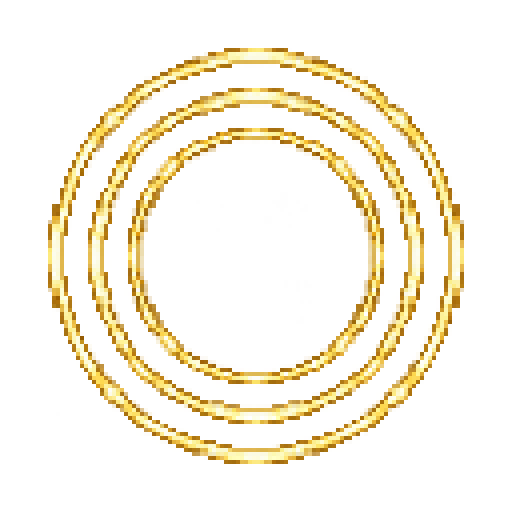
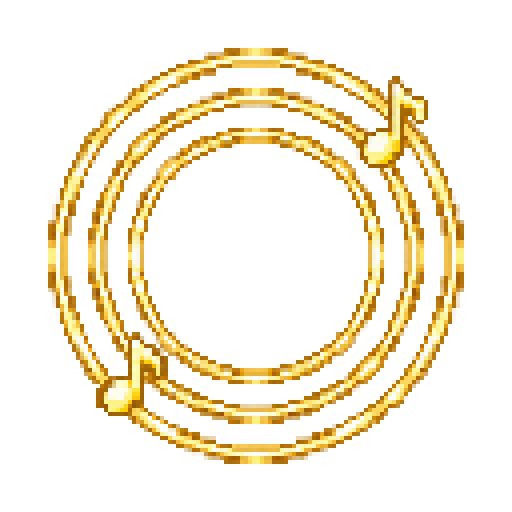
Add shared thread wrap cocoon guard and musical bell VFX drafts

Changed region(s): [[0.0938, 0.0938, 0.9062, 0.9062]]

diff --git a/Docs/Art/skill-vfx-preview.html b/Docs/Art/skill-vfx-preview.html
@@ -5,9 +5,10 @@
 <title>スキル画像草案</title>
 <style>
 *{box-sizing:border-box}body{margin:0;background:#f1f3f2;color:#26342b;font:15px system-ui,sans-serif;letter-spacing:0}header{background:white;border-bottom:1px solid #cbd3cc;padding:18px 24px}header>div,main{max-width:1100px;margin:auto}header>div{display:flex;gap:16px;align-items:center;flex-wrap:wrap}h1{font-size:21px;margin:0}small{color:#667367;font-size:13px}.controls{display:flex;gap:12px;margin-left:auto;align-items:center}button{font:inherit;background:white;color:#263e30;border:1px solid #a9b8ac;cursor:pointer;min-width:40px;height:36px;border-radius:3px}button:hover{background:#e9f0eb}button[aria-pressed=true]{background:#315840;color:white}.angles{display:flex}.angles button{border-radius:0;border-right:0}.angles button:first-child{border-radius:3px 0 0 3px}.angles button:last-child{border-right:1px solid #a9b8ac;border-radius:0 3px 3px 0}main{padding:16px 24px}article{padding:10px 0 20px;border-bottom:1px solid #cbd3cc}h2{font-size:17px;margin:0 0 10px}h2 span{font-weight:400;font-size:14px;margin-left:14px;color:#667367}.row{display:grid;grid-template-columns:210px minmax(0,1fr);gap:18px;align-items:center}.still{height:190px;display:grid;place-items:center;background-color:#e2e7e3;background-image:linear-gradient(45deg,#d6ddd8 25%,transparent 25%),linear-gradient(-45deg,#d6ddd8 25%,transparent 25%),linear-gradient(45deg,transparent 75%,#d6ddd8 75%),linear-gradient(-45deg,transparent 75%,#d6ddd8 75%);background-size:20px 20px;background-position:0 0,0 10px,10px -10px,-10px 0}.still img{max-width:184px;max-height:170px;image-rendering:pixelated}.scene{display:block;width:100%;aspect-ratio:16/7;background:#74866b;image-rendering:pixelated}#error{color:#b02929}@media(max-width:650px){header{padding:14px 12px}.controls{margin-left:0;width:100%}main{padding:12px}.row{grid-template-columns:1fr;gap:10px}.still{height:106px}.still img{max-height:96px;max-width:210px}h1{font-size:19px}}
+.still.pair{grid-template-columns:1fr 1fr;gap:6px;padding:8px}.still.pair img{max-width:100%;max-height:150px;width:auto}.still.pair img:first-child{width:95px}@media(max-width:650px){.still.pair img{max-height:90px}.still.pair img:first-child{width:160px}}
 </style>
 <header><div><h1>スキル画像</h1><small>草案・ゲーム未接続</small><div class="controls"><button id="play" title="一時停止" aria-label="一時停止">&#10074;&#10074;</button><button id="replay" title="最初から再生" aria-label="最初から再生">&#8634;</button><div class="angles" role="group" aria-label="向き"><button data-angle="0" aria-pressed="true">0°</button><button data-angle="90" aria-pressed="false">90°</button><button data-angle="180" aria-pressed="false">180°</button><button data-angle="270" aria-pressed="false">270°</button></div></div></div></header>
-<main><article data-key="ChainLightning"><h2>電<span>連鎖電撃</span></h2><div class="row"><div class="still"></div><canvas class="scene" width="1280" height="560" aria-label="電の動作草案"></canvas></div></article><article data-key="PullThread"><h2>糸<span>引き糸</span></h2><div class="row"><div class="still"></div><canvas class="scene" width="1280" height="560" aria-label="糸の動作草案"></canvas></div></article><article data-key="BellEcho"><h2>鈴<span>再響</span></h2><div class="row"><div class="still"></div><canvas class="scene" width="1280" height="560" aria-label="鈴の動作草案"></canvas></div></article><p id="error" role="alert"></p></main>
+<main><article data-key="ChainLightning"><h2>電<span>連鎖電撃</span></h2><div class="row"><div class="still"></div><canvas class="scene" width="1280" height="560" aria-label="電の動作草案"></canvas></div></article><article data-key="PullThread"><h2>糸<span>引き糸</span></h2><div class="row"><div class="still"></div><canvas class="scene" width="1280" height="560" aria-label="糸の動作草案"></canvas></div></article><article data-key="BellEcho"><h2>鈴<span>再響</span></h2><div class="row"><div class="still"></div><canvas class="scene" width="1280" height="560" aria-label="鈴の動作草案"></canvas></div></article><article data-key="CocoonGuard"><h2>繭<span id="cocoon-phase">待機</span></h2><div class="row"><div class="still"></div><canvas class="scene" width="1280" height="560" aria-label="繭の巻き付きから保護への動作草案"></canvas></div></article><p id="error" role="alert"></p></main>
 <script>
 const draft='/Assets/Art/Drafts/VFX/SupportSkills/';
 const art='/Assets/Resources/UI/CharacterPieces/';
@@ -21,14 +22,17 @@ function point(x,y){const r=angle*Math.PI/180,s=angle%180?0.45:1;return{x:320+((
 function piece(ctx,image,p,bump=0){ctx.drawImage(image,p.x-27,p.y-32-bump,54,64);}
 function link(ctx,key,a,b,alpha=1){const l=layouts[key],r=l.bounds,dist=Math.hypot(b.x-a.x,b.y-a.y);ctx.save();ctx.globalAlpha=alpha;ctx.translate(a.x,a.y);ctx.rotate(Math.atan2(b.y-a.y,b.x-a.x));const h=key==='PullThread'?Math.max(3,dist*r.h/r.w):Math.max(7,dist*r.h/r.w);ctx.drawImage(images[key],r.x,r.y,r.w,r.h,0,-h/2,dist,h);ctx.restore();}
 function ring(ctx,p,progress){const r=layouts.BellEcho.bounds;ctx.save();ctx.globalAlpha=Math.sin(progress*Math.PI);const size=70+progress*85;ctx.drawImage(images.BellEcho,r.x,r.y,r.w,r.h,p.x-size/2,p.y-size/2,size,size);ctx.restore();}
+function overlay(ctx,key,p,alpha=1,height=104){const r=layouts[key].bounds,w=height*r.w/r.h;ctx.save();ctx.globalAlpha=alpha;ctx.drawImage(images[key],r.x,r.y,r.w,r.h,p.x-w/2,p.y-height/2,w,height);ctx.restore();}
+function cocoonState(seconds){const t=seconds%4.2,wrap=t>=.25&&t<1.2?Math.min(1,(t-.25)/.18,(1.2-t)/.2):0,guard=t>=1.28&&t<3.6?Math.min(1,(t-1.28)/.22,(3.6-t)/.3):0;return{wrap,guard,phase:wrap>0?'巻き付き':guard>0?'保護':'待機'};}
 function draw(){if(!images)return;const t=elapsed%2.8;
  for(const article of document.querySelectorAll('article')){const key=article.dataset.key,c=article.querySelector('canvas'),ctx=c.getContext('2d');ctx.setTransform(2,0,0,2,0,0);ctx.imageSmoothingEnabled=false;ctx.fillStyle='#74866b';ctx.fillRect(0,0,640,280);ctx.strokeStyle='#94a184';ctx.lineWidth=1;for(let x=0;x<640;x+=64){ctx.beginPath();ctx.moveTo(x,0);ctx.lineTo(x,280);ctx.stroke();}for(let y=12;y<280;y+=64){ctx.beginPath();ctx.moveTo(0,y);ctx.lineTo(640,y);ctx.stroke();}
   if(key==='ChainLightning'){const positions=[point(100,140),point(290,140),point(420,140),point(540,140)];piece(ctx,pieces.electric,positions[0]);for(let i=1;i<4;i++)piece(ctx,pieces.enemy,positions[i],t>0.35+(i-1)*0.35&&t<0.62+(i-1)*0.35?3:0);for(let i=0;i<3;i++){const phase=t-0.35-i*0.35;if(phase>=0&&phase<0.34)link(ctx,key,positions[i],positions[i+1],Math.min(1,phase/0.04,(0.34-phase)/0.07));}}
-  if(key==='PullThread'){const progress=Math.max(0,Math.min(1,(t-0.55)/0.7)),ease=progress*progress*(3-2*progress);const a=point(140,140),b=point(500-160*ease,140);piece(ctx,pieces.thread,a);piece(ctx,pieces.enemy,b);if(t>0.3&&t<1.5)link(ctx,key,a,b,Math.min(1,(t-0.3)/0.1,(1.5-t)/0.15));}
+  if(key==='PullThread'){const progress=Math.max(0,Math.min(1,(t-0.55)/0.7)),ease=progress*progress*(3-2*progress);const a=point(140,140),b=point(500-160*ease,140);piece(ctx,pieces.thread,a);piece(ctx,pieces.enemy,b);if(t>0.3&&t<1.5)link(ctx,key,a,b,Math.min(1,(t-0.3)/0.1,(1.5-t)/0.15));if(t>.42&&t<1.5)overlay(ctx,'ThreadWrap',b,Math.min(1,(t-.42)/.16,(1.5-t)/.18));}
+  if(key==='CocoonGuard'){const a=point(230,140),b=point(410,140),state=cocoonState(elapsed);piece(ctx,pieces.cocoon,a);piece(ctx,pieces.friend,b);if(state.wrap>0)overlay(ctx,'ThreadWrap',b,state.wrap,112);if(state.guard>0)overlay(ctx,'CocoonGuard',b,state.guard,126);document.querySelector('#cocoon-phase').textContent=state.phase;}
   if(key==='BellEcho'){const a=point(230,140),b=point(410,140);piece(ctx,pieces.bell,a);piece(ctx,pieces.friend,b,t>0.75&&t<1.05?4:0);if(t>0.25&&t<1.15)ring(ctx,a,(t-0.25)/0.9);if(t>0.55&&t<1.45)ring(ctx,b,(t-0.55)/0.9);}
  }
 }
-async function init(){const r=await fetch(draft+'layout.json');if(!r.ok)throw Error('画像配置を読み込めません');layouts=Object.fromEntries((await r.json()).entries.map(e=>[e.key,e]));images=Object.fromEntries(await Promise.all(Object.keys(layouts).map(async k=>[k,await load(draft+k+'.png')])));pieces=Object.fromEntries(await Promise.all(Object.entries({electric:'Piece_31.png',thread:'Piece_28.png',bell:'Piece_27.png',enemy:'Piece_10_Enemy.png',friend:'Piece_10.png'}).map(async([k,n])=>[k,await load(art+n)])));for(const a of document.querySelectorAll('article')){const i=new Image();i.src=images[a.dataset.key].src;i.alt=a.querySelector('h2').textContent+'の単画像';a.querySelector('.still').append(i);}window.supportVfxPreview={ready:true,renderAt(seconds,degrees=0){setPlaying(false);elapsed=seconds;angle=degrees;draw();},setPlaying};draw();requestAnimationFrame(tick);}
+async function init(){const r=await fetch(draft+'layout.json');if(!r.ok)throw Error('画像配置を読み込めません');layouts=Object.fromEntries((await r.json()).entries.map(e=>[e.key,e]));images=Object.fromEntries(await Promise.all(Object.keys(layouts).map(async k=>[k,await load(draft+k+'.png')])));pieces=Object.fromEntries(await Promise.all(Object.entries({electric:'Piece_31.png',thread:'Piece_28.png',bell:'Piece_27.png',enemy:'Piece_10_Enemy.png',friend:'Piece_10.png',cocoon:'Piece_F1015.png'}).map(async([k,n])=>[k,await load(art+n)])));for(const a of document.querySelectorAll('article')){const keys=a.dataset.key==='PullThread'?['PullThread','ThreadWrap']:[a.dataset.key];if(keys.length>1)a.querySelector('.still').classList.add('pair');for(const key of keys){const i=new Image();i.src=images[key].src;i.alt=key==='ThreadWrap'?'共用の巻き付き画像':a.querySelector('h2').textContent+'の単画像';a.querySelector('.still').append(i);}}window.supportVfxPreview={ready:true,cocoonState,renderAt(seconds,degrees=0){setPlaying(false);elapsed=seconds;angle=degrees;draw();},setPlaying};draw();requestAnimationFrame(tick);}
 function tick(now){if(playing)elapsed+=(now-last)/1000;last=now;draw();requestAnimationFrame(tick);}
 init().catch(e=>{document.querySelector('#error').textContent=e.message;console.error(e);});
 </script>

diff --git a/scripts/art/check-support-skill-vfx.js b/scripts/art/check-support-skill-vfx.js
@@ -11,7 +11,7 @@ const layout=require('../../Assets/Art/Drafts/VFX/SupportSkills/layout.json');
 async function main(){
   fs.mkdirSync(directory,{recursive:true});
   const report={status:'draft-only',assets:[],checks:[],errors:[]};
-  assert.equal(manifest.generated.length,3);
+  assert.equal(manifest.generated.length,5);
   for(const entry of layout.entries){
     const png=PNG.sync.read(fs.readFileSync(path.join(root,entry.sprite)));
     assert.equal(png.width,entry.width);assert.equal(png.height,entry.height);
@@ -23,9 +23,13 @@ async function main(){
       for(let c=0;c<4;c++)assert.equal(png.data[i+c],png.data[((y-y%4)*png.width+x-x%4)*4+c],entry.key+' grid');
     }
     assert(clear>png.width*png.height*.25&&solid>100);
-    if(entry.key==='BellEcho'){
-      assert.equal(entry.bounds.w,entry.bounds.h);
-      for(let y=230;y<282;y++)for(let x=230;x<282;x++)assert.equal(png.data[(y*png.width+x)*4+3],0,'Echo center must stay clear');
+    const effect=manifest.generated.find(e=>e.key===entry.key);
+    if(effect.axis!=='right'){
+      assert.deepEqual(entry.pivot,[.5,.5]);
+      assert.equal(entry.start,null);assert.equal(entry.end,null);
+      if(entry.key==='BellEcho')assert.equal(entry.bounds.w,entry.bounds.h);
+      if(entry.key==='BellEcho'||entry.key==='CocoonGuard')
+      for(let y=230;y<282;y++)for(let x=230;x<282;x++)assert(png.data[(y*png.width+x)*4+3]<=1,entry.key+' center must stay clear (at most 1/255 alpha)');
     }else{
       assert(entry.bounds.w>entry.bounds.h*5,'Directional sprite is not horizontal');
       assert.deepEqual(entry.pivot,[.5,.5]);assert(entry.start[0]<entry.end[0]);
@@ -40,6 +44,19 @@ async function main(){
     await page.goto(process.env.KANJI_SUPPORT_VFX_URL||'http://127.0.0.1:8799/Docs/Art/skill-vfx-preview.html');
     await page.waitForFunction(()=>window.supportVfxPreview?.ready);
     await page.waitForFunction(()=>[...document.querySelectorAll('.still img')].every(i=>i.complete&&i.naturalWidth>0));
+    assert.equal(await page.locator('.scene').count(),4);
+    assert.equal(await page.locator('.still img').count(),5);
+    for(const [name,time]of [['wrap',.8],['clear',1.24],['guard',1.85],['held',3]]){
+      const state=await page.evaluate(t=>{supportVfxPreview.renderAt(t);return supportVfxPreview.cocoonState(t);},time);
+      assert(name==='wrap'?state.wrap>0&&state.guard===0:name==='clear'?state.wrap===0&&state.guard===0:state.wrap===0&&state.guard===1,'Wrong cocoon phase: '+name);
+      await page.locator('article[data-key=CocoonGuard]').screenshot({path:path.join(directory,'cocoon-'+name+'.png')});
+    }
+    const phases=await page.evaluate(()=>Array.from({length:420},(_,i)=>supportVfxPreview.cocoonState(i/100)));
+    assert(phases.every(p=>p.wrap===0||p.guard===0),'Wrap and protection must not overlap');
+    await page.evaluate(()=>supportVfxPreview.renderAt(1.85));
+    const protectedImage=await page.locator('article[data-key=CocoonGuard] canvas').evaluate(c=>c.toDataURL());
+    await page.evaluate(()=>supportVfxPreview.renderAt(3));
+    assert.equal(await page.locator('article[data-key=CocoonGuard] canvas').evaluate(c=>c.toDataURL()),protectedImage,'Protection state should remain after wrap disappears');
     for(const angle of [0,90,180,270]){
       await page.evaluate(a=>supportVfxPreview.renderAt(.44,a),angle);
       const anchors=await page.evaluate(()=>[point(100,140),point(290,140),point(420,140),point(540,140),point(140,140),point(500,140)]);
@@ -74,8 +91,9 @@ async function main(){
     await page.evaluate(()=>{supportVfxPreview.renderAt(.8);document.querySelector('.controls').remove();document.querySelector('main').style.cssText='display:grid;grid-template-columns:repeat(3,minmax(0,1fr));gap:18px';for(const a of document.querySelectorAll('article')){a.querySelector('canvas').style.display='none';a.querySelector('.row').style.gridTemplateColumns='1fr';}});
     await page.screenshot({path:path.join(directory,'three-sprites.png'),fullPage:true});
     assert.deepEqual(report.errors,[]);
-    report.checks.push('3 RGBA sprites; fixed sizes, transparent margin, 128px grid and clear echo center');
-    report.checks.push('all three effects change at 0/90/180/270 degrees using one image each');
+    report.checks.push('5 RGBA sprites; fixed sizes, transparent margin, 128px grid and clear bell/cocoon centers');
+    report.checks.push('4 skill examples change at 0/90/180/270 degrees using single-image states');
+    report.checks.push('shared thread wrap is followed by a clear gap, then persistent cocoon protection; no overlap across 420 samples');
     report.checks.push('desktop/mobile nonblank, no overflow, no stretched circles, controls work');
   }finally{
     await browser.close();fs.writeFileSync(path.join(directory,'report.json'),JSON.stringify(report,null,2)+'\n');

diff --git a/Docs/Art/SupportSkillVfx.md b/Docs/Art/SupportSkillVfx.md
@@ -1,4 +1,4 @@
-# 電・糸・鈴のスキル画像草案
+# 電・糸・鈴・繭のスキル画像草案
 
 状態: レビュー前。ゲーム未接続。既存のVFX・モチーフ・コマ・スキル性能は変更していない。
 
@@ -7,12 +7,15 @@
 | スキル | 単画像 | 想定する動き |
 |---|---|---|
 | 電・連鎖電撃 | `ChainLightning.png` | 敵同士を順につなぎ、短く表示して消す |
-| 糸・引き糸 | `PullThread.png` | 使用者と対象をつなぎ、対象の移動に合わせて縮める |
-| 鈴・再響 | `BellEcho.png` | 再発動する味方の位置で拡大・消去する |
+| 糸・引き糸 | `PullThread.png`＋`ThreadWrap.png` | 命中時に巻き付き、対象と一緒に動きながら直線部分を縮める |
+| 鈴・再響 | `BellEcho.png` | 音符付きの波紋を味方の位置で拡大・消去する |
+| 繭・保護 | `ThreadWrap.png`→消去→`CocoonGuard.png` | 共用の巻き付きが消えた後、別画像の白い繭に囲まれた状態が残る |
 
-- 保存先: `Assets/Art/Drafts/VFX/SupportSkills/`。各効果はPNG1枚。方向性のある2枚は512×128、鈴は512×512。128px論理グリッドを補間なしで4倍表示。シート分割やフレーム切替は不要。
+- 保存先: `Assets/Art/Drafts/VFX/SupportSkills/`。状態ごとにPNG1枚、計5枚。方向性のある2枚は512×128、鈴・巻き付き・繭の保護は512×512。128px論理グリッドを補間なしで4倍表示。アニメーションシート分割や連番フレームの切替は不要。
 - 原画は同ディレクトリの`Source/`。内蔵image_genによる生成元、全プロンプト、生成時の保存先は`SupportSkillVfx.json`。
-- `layout.json`に固定寸法・内容範囲・中央ピボット・接続点を記録。電と糸のローカル前方は右。透明余白まで距離に含めず、内容範囲を接続点へ合わせる。鈴は回転中立・中心基準。
+- `layout.json`に固定寸法・内容範囲・中央ピボット・接続点を記録。電と糸のローカル前方は右。透明余白まで距離に含めず、内容範囲を接続点へ合わせる。鈴・巻き付き・繭は対象の中心基準で、絵の縦横比を保つ。繭は中央を空け、漢字を見せる。
+- 鈴の旧原画は`Source/BellEcho.png`に維持。音符追加後の原画は`Source/BellEchoNotes.png`。制作記録にも前案を保持。
+- 繭のレビュー再生は巻き付き、短い消去区間、保護状態、ループ用フェードで構成。演出の重なりはなく、巻き付きだけが残る表現ではない。プレビューの秒数は実ゲームの効果持続ターンを定めるものではない。
 - HTML上の動きは独立したレビュー用シミュレーション。ダメージ、乱数、スキル確率、実際の引き寄せ成否は解決していない。プレビューの成功をUnityへの接続確認と読み替えない。
 
 ## 確認画面
@@ -29,8 +32,10 @@ KANJI_ART_PORT=8799 node scripts/art/serve-gallery.js
 node scripts/art/check-support-skill-vfx.js
 ```
 
-画像検査: 3枚のRGBA透過、非空、四辺の余白、固定寸法、4pxブロック整合、鈴中央の透明な空間に成功。
+画像検査: 5枚のRGBA透過、非空、四辺の余白、固定寸法、4pxブロック整合、鈴・繭中央の実質透明な空間（アルファ最大1/255）を確認する。
 
-画面検査: 全3効果の4方向での動作変化、PC1280px・スマホ390pxの非空描画、はみ出しなし、波紋の縦横比、再生関連の操作に成功。エラー0。記録は`tmp/skill-vfx/report.json`、画面画像も同ディレクトリ。
+画面検査: 4種類のスキルの4方向での動作変化、PC1280px・スマホ390pxの非空描画、はみ出しなし、波紋の縦横比、再生関連の操作を確認する。繭は420時点で巻き付きと保護が同時表示されないこと、保護状態が後の時点でも維持されることを確認する。記録は`tmp/skill-vfx/report.json`、画面画像も同ディレクトリ。
 
 Unity・戦闘ルール・WebGLの再ビルド／回帰は未実施。レビュー後に承認素材のみを本番へ移し、成功したスキルのタイミング・実際の対象・移動と結び付けて検証する。
+
+2026-10-25: 上記の画像・プレビュー検査すべて成功、エラー0。巻き付き／消去／保護／保護継続の画面は`tmp/skill-vfx/cocoon-*.png`。

diff --git a/Docs/Audio/VFX_AnimatedAssetBrief.md b/Docs/Audio/VFX_AnimatedAssetBrief.md
@@ -6,13 +6,15 @@ Create animated transparent sprite assets that make the simple kanji characters 
 
 ## 電・糸・鈴の単画像草案: 2026-10-25
 
-- 対象は電の連鎖電撃、糸の引き寄せ、鈴の再響。各効果は透過PNG1枚のみで表し、フレーム列やスプライトシートを新設しない。単画像を位置・回転・伸縮・透明度で動かす現行方針を優先する。
+- 対象は電の連鎖電撃、糸の引き寄せ、鈴の再響と繭。素材は各状態につき透過PNG1枚で表し、フレーム列やスプライトシートを新設しない。糸は直線＋巻き付き、繭は巻き付き＋保護状態の2素材を組み合わせる。位置・回転・伸縮・透明度で動かす現行方針を優先する。
 - 電は左端から右端へ進む細長い折れ線状の稲妻。黄白色の芯と控えめな黄土色の縁。敵同士を順につなぐ使い方を想定し、放射状の爆発や巨大な発光を付けない。
 - 糸は左から右へ張る白～生成りの一本の糸。糸巻き・針・キャラは含めず、細い撚りと小さなたるみで糸と読ませる。画像の左右端が接続点。対象との距離に合わせて長さを変え、引き寄せ後に消す。
-- 鈴は正円の音の波紋。淡い真鍮色の2～3本の輪と中央の透明な空間。鈴そのものや音符は描かず、味方の漢字を隠さない。中心ピボットで拡大・消去し、再発動した味方に表示する。
+- 鈴は正円の音の波紋に小さな音符2個を添える。淡い真鍮色の2～3本の輪と中央の透明な空間を保ち、味方の漢字を隠さない。中心ピボットで拡大・消去し、再発動した味方に表示する。
+- 巻き付きは白～生成りの糸が対象を取り囲む共通素材。糸の命中時は対象と一緒に動き、繭の発動時にも使う。結び目・針・キャラは含めず、中央の文字が見える余白を保つ。
+- 繭は「巻き付き → 巻き付き演出が消える → 繭に囲まれた保護状態が残る」の順。巻き付きの画像をそのまま残すのではなく、別の白い蚕の繭状の保護画像へ切り替える。保護画像は外周に厚みと繊維を持たせ、中心には文字を読む透明な空間を残す。地面・草・葉・生き物は描かない。
 - 共通: 意図的な128px相当のドット絵、透過、四辺の安全余白、文字なし。原画・確認用画像は`Assets/Art/Drafts/VFX/SupportSkills/`へ分離。元のVFX・モチーフ・コマは変更しない。
 - この工程は画像と動作プレビューの制作。ゲームへの接続はレビュー承認後。生成元と全プロンプト、使用する軸・ピボット、透過・寸法の確認記録を保存する。
-- 草案3枚を制作。`Docs/Art/skill-vfx-preview.html`で単画像の伸縮・回転・拡大と、PC／スマホの表示を確認。透過・余白・固定寸法・4方向・再生操作の検査に成功。制作記録は`Docs/Art/SupportSkillVfx.md`と同名JSON。Unityへの接続・戦闘内検証はまだ行っていない。
+- 草案5枚・4種類のスキル例を制作。`Docs/Art/skill-vfx-preview.html`で単画像の伸縮・回転・拡大と、PC／スマホの表示を確認。透過・余白・固定寸法・4方向・再生操作と、繭の巻き付き消去後に保護だけが残る順序の検査に成功。制作記録は`Docs/Art/SupportSkillVfx.md`と同名JSON。Unityへの接続・戦闘内検証はまだ行っていない。
 
 ## Runtime Presentation Update: 2026-09-20
 
